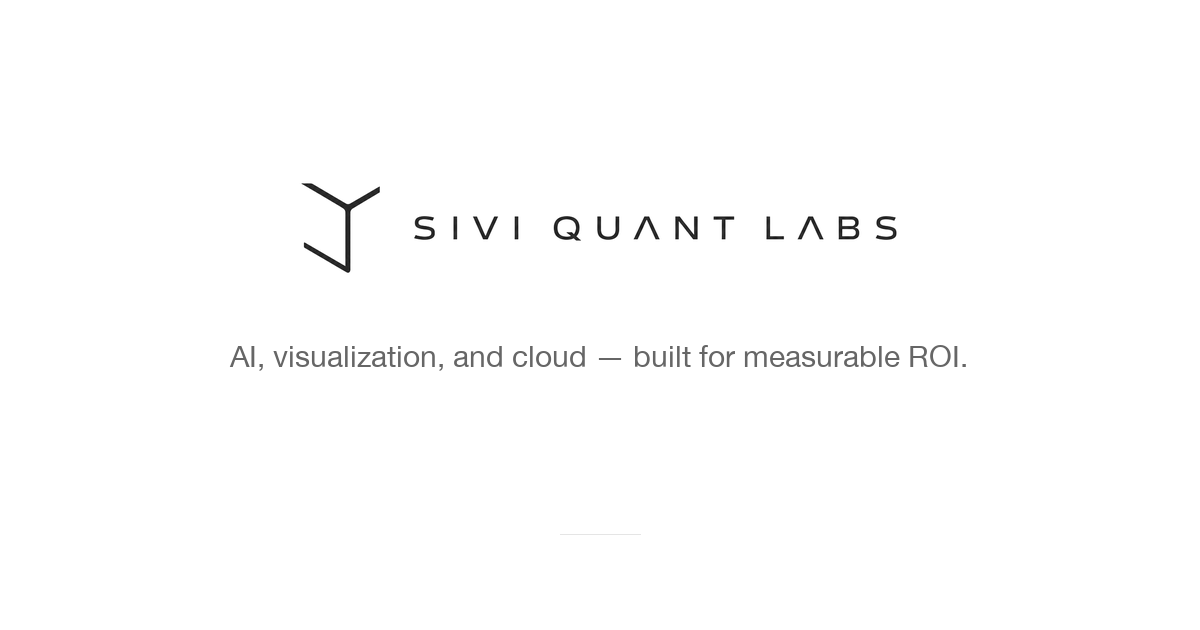
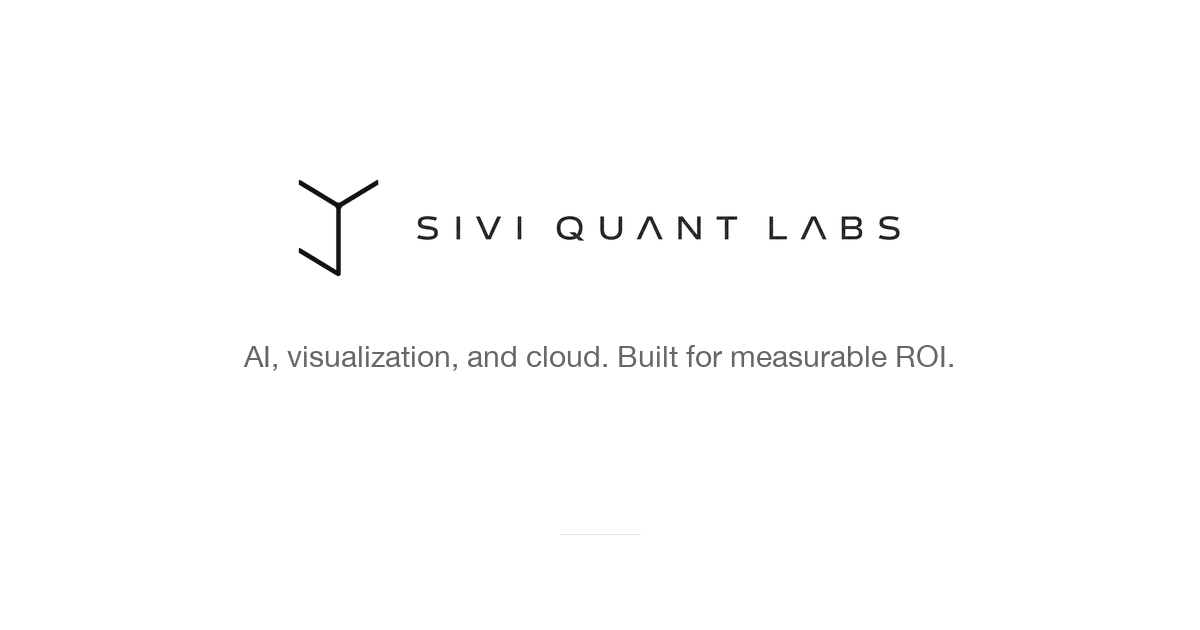
Use the correct brand mark from the pre-placement deck
The icon on the site was a degraded trace: its strokes tapered into wedges
and carried a faint gradient. The mark embedded in slide 1 of
SiviQuantLabs_PrePlacement.pptx is the clean original, with uniform stroke
weight, so the site and the deck now use the same artwork.

- assets/mark-ink.png rebuilt from the deck's mark, trimmed to the artwork
  and recoloured to #111 with the anti-aliased alpha preserved.
- assets/mark-light.png keeps the original white version for dark backgrounds.
- assets/og.png regenerated so the social card matches.
- Nav and footer mark grows 26px to 30px: the correct artwork has thinner
  strokes and needs the extra height to sit level with the wordmark.
- Intrinsic width/height attributes updated for the new 390x465 aspect.

diff --git a/careers/index.html b/careers/index.html
@@ -200,7 +200,7 @@
 <header>
   <div class="wrap nav">
     <a class="brand" href="../" aria-label="Sivi Quant Labs home">
-      <img class="mark" src="../assets/mark-ink.png" alt="" width="347" height="394">
+      <img class="mark" src="../assets/mark-ink.png" alt="" width="390" height="465">
       <img class="word" src="../assets/wordmark-ink.png" alt="Sivi Quant Labs" width="955" height="66">
     </a>
     <nav class="navlinks" aria-label="Primary">
@@ -417,7 +417,7 @@
 <footer>
   <div class="wrap foot">
     <a class="brand" href="../" aria-label="Sivi Quant Labs home">
-      <img class="mark" src="../assets/mark-ink.png" alt="" width="347" height="394">
+      <img class="mark" src="../assets/mark-ink.png" alt="" width="390" height="465">
       <img class="word" src="../assets/wordmark-ink.png" alt="Sivi Quant Labs" width="955" height="66">
     </a>
     <nav class="foot-links" aria-label="Footer">

diff --git a/services/index.html b/services/index.html
@@ -363,7 +363,7 @@
 <header>
   <div class="wrap nav">
     <a class="brand" href="../" aria-label="Sivi Quant Labs home">
-      <img class="mark" src="../assets/mark-ink.png" alt="" width="347" height="394">
+      <img class="mark" src="../assets/mark-ink.png" alt="" width="390" height="465">
       <img class="word" src="../assets/wordmark-ink.png" alt="Sivi Quant Labs" width="955" height="66">
     </a>
     <nav class="navlinks" aria-label="Primary">
@@ -549,7 +549,7 @@
 <footer>
   <div class="wrap foot">
     <a class="brand" href="../" aria-label="Sivi Quant Labs home">
-      <img class="mark" src="../assets/mark-ink.png" alt="" width="347" height="394">
+      <img class="mark" src="../assets/mark-ink.png" alt="" width="390" height="465">
       <img class="word" src="../assets/wordmark-ink.png" alt="Sivi Quant Labs" width="955" height="66">
     </a>
     <nav class="foot-links" aria-label="Footer">

diff --git a/thanks/index.html b/thanks/index.html
@@ -21,7 +21,7 @@
 <header>
   <div class="wrap nav">
     <a class="brand" href="../" aria-label="Sivi Quant Labs home">
-      <img class="mark" src="../assets/mark-ink.png" alt="" width="347" height="394">
+      <img class="mark" src="../assets/mark-ink.png" alt="" width="390" height="465">
       <img class="word" src="../assets/wordmark-ink.png" alt="Sivi Quant Labs" width="955" height="66">
     </a>
     <nav class="navlinks" aria-label="Primary">
@@ -50,7 +50,7 @@
 <footer>
   <div class="wrap foot">
     <a class="brand" href="../" aria-label="Sivi Quant Labs home">
-      <img class="mark" src="../assets/mark-ink.png" alt="" width="347" height="394">
+      <img class="mark" src="../assets/mark-ink.png" alt="" width="390" height="465">
       <img class="word" src="../assets/wordmark-ink.png" alt="Sivi Quant Labs" width="955" height="66">
     </a>
     <nav class="foot-links" aria-label="Footer">

diff --git a/index.html b/index.html
@@ -329,7 +329,7 @@
 <header>
   <div class="wrap nav">
     <a class="brand" href="./" aria-label="Sivi Quant Labs home">
-      <img class="mark" src="assets/mark-ink.png" alt="" width="347" height="394">
+      <img class="mark" src="assets/mark-ink.png" alt="" width="390" height="465">
       <img class="word" src="assets/wordmark-ink.png" alt="Sivi Quant Labs" width="955" height="66">
     </a>
     <nav class="navlinks" aria-label="Primary">
@@ -637,7 +637,7 @@
 <footer>
   <div class="wrap foot">
     <a class="brand" href="./" aria-label="Sivi Quant Labs home">
-      <img class="mark" src="assets/mark-ink.png" alt="" width="347" height="394">
+      <img class="mark" src="assets/mark-ink.png" alt="" width="390" height="465">
       <img class="word" src="assets/wordmark-ink.png" alt="Sivi Quant Labs" width="955" height="66">
     </a>
     <nav class="foot-links" aria-label="Footer">

diff --git a/assets/site.css b/assets/site.css
@@ -155,7 +155,9 @@ header{
 }
 .nav{height:72px;display:flex;align-items:center;justify-content:space-between;gap:var(--s3)}
 .brand{display:flex;align-items:center;gap:12px;flex:none}
-.brand .mark{height:26px;width:auto}
+/* The deck's mark has thinner strokes than the old trace, so it carries a
+   little more height to sit level with the wordmark. */
+.brand .mark{height:30px;width:auto}
 .brand .word{height:11px;width:auto}
 
 .navlinks{display:flex;align-items:center;gap:var(--s3)}
